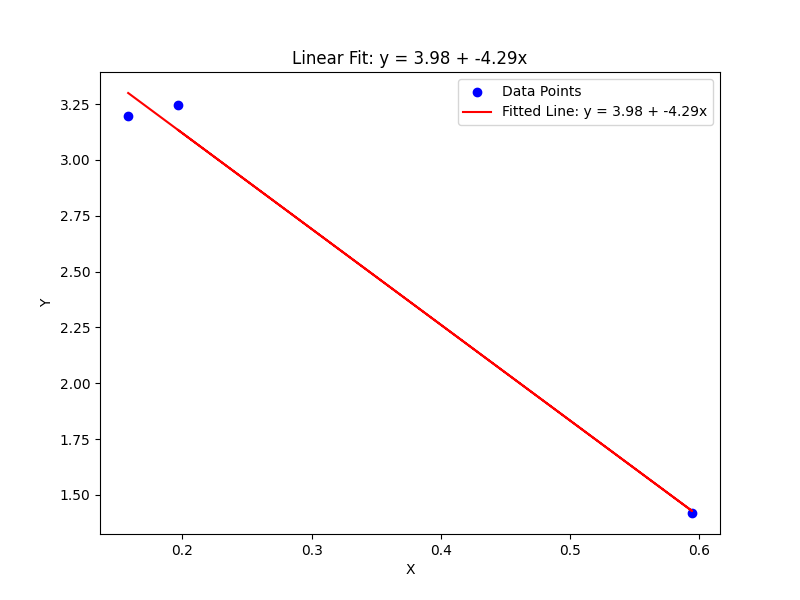
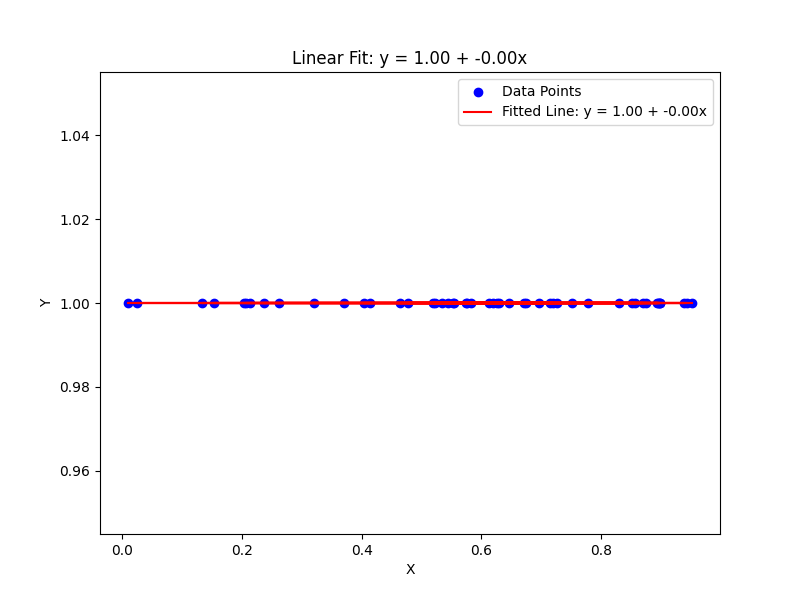
Update

diff --git a/app.py b/app.py
@@ -16,7 +16,7 @@ def generate_plots(N, mu, sigma2, S):
     # and a random dataset Y with normal additive error (mean mu, variance sigma^2).
     # Hint: Use numpy's random's functions to generate values for X and Y
     X = np.random.uniform(0, 1, N)  # Replace with code to generate random values for X
-    Y = X + np.random.normal(mu, np.sqrt(sigma2), N)  # Replace with code to generate random values for Y with specified mean and variance
+    Y = mu + np.random.normal(0, np.sqrt(sigma2), N)  # Replace with code to generate random values for Y with specified mean and variance
 
     # 2: Fit a linear regression model to X and Y
     # Hint: Use Scikit Learn
